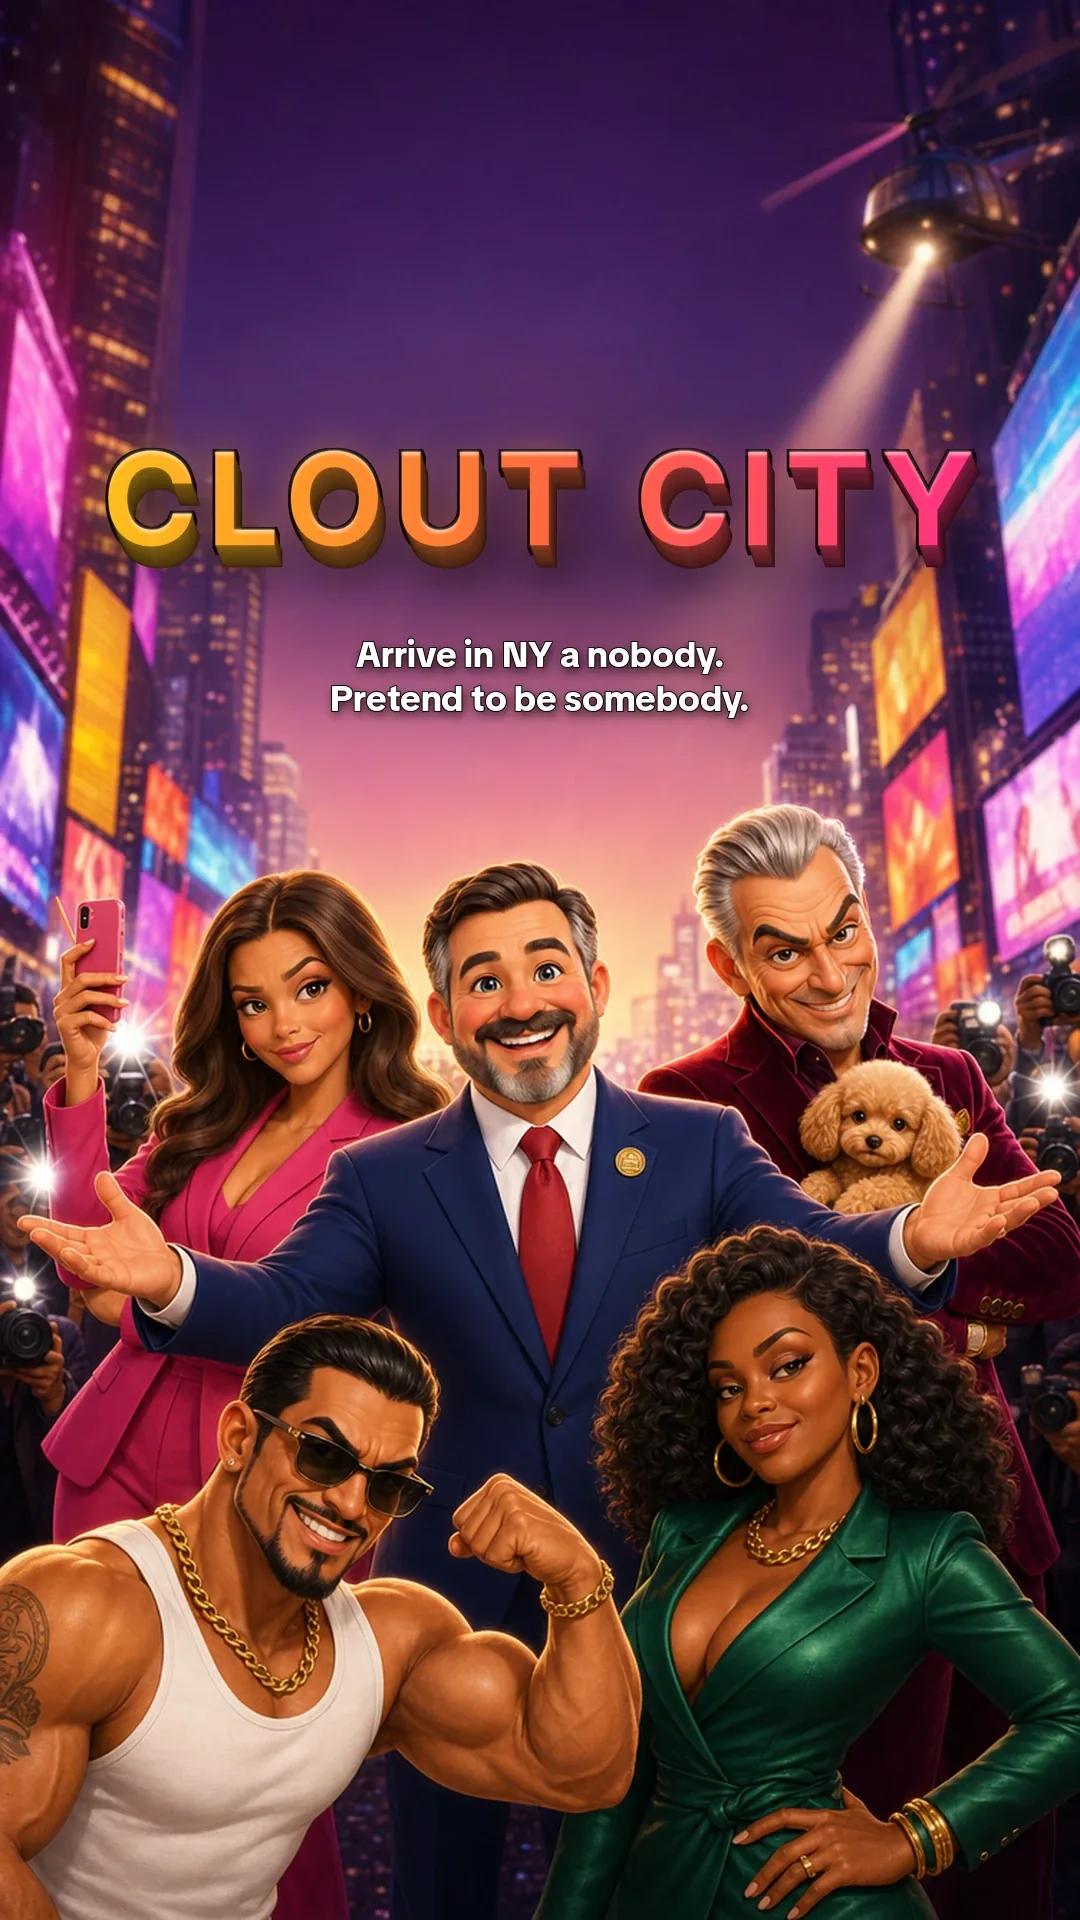
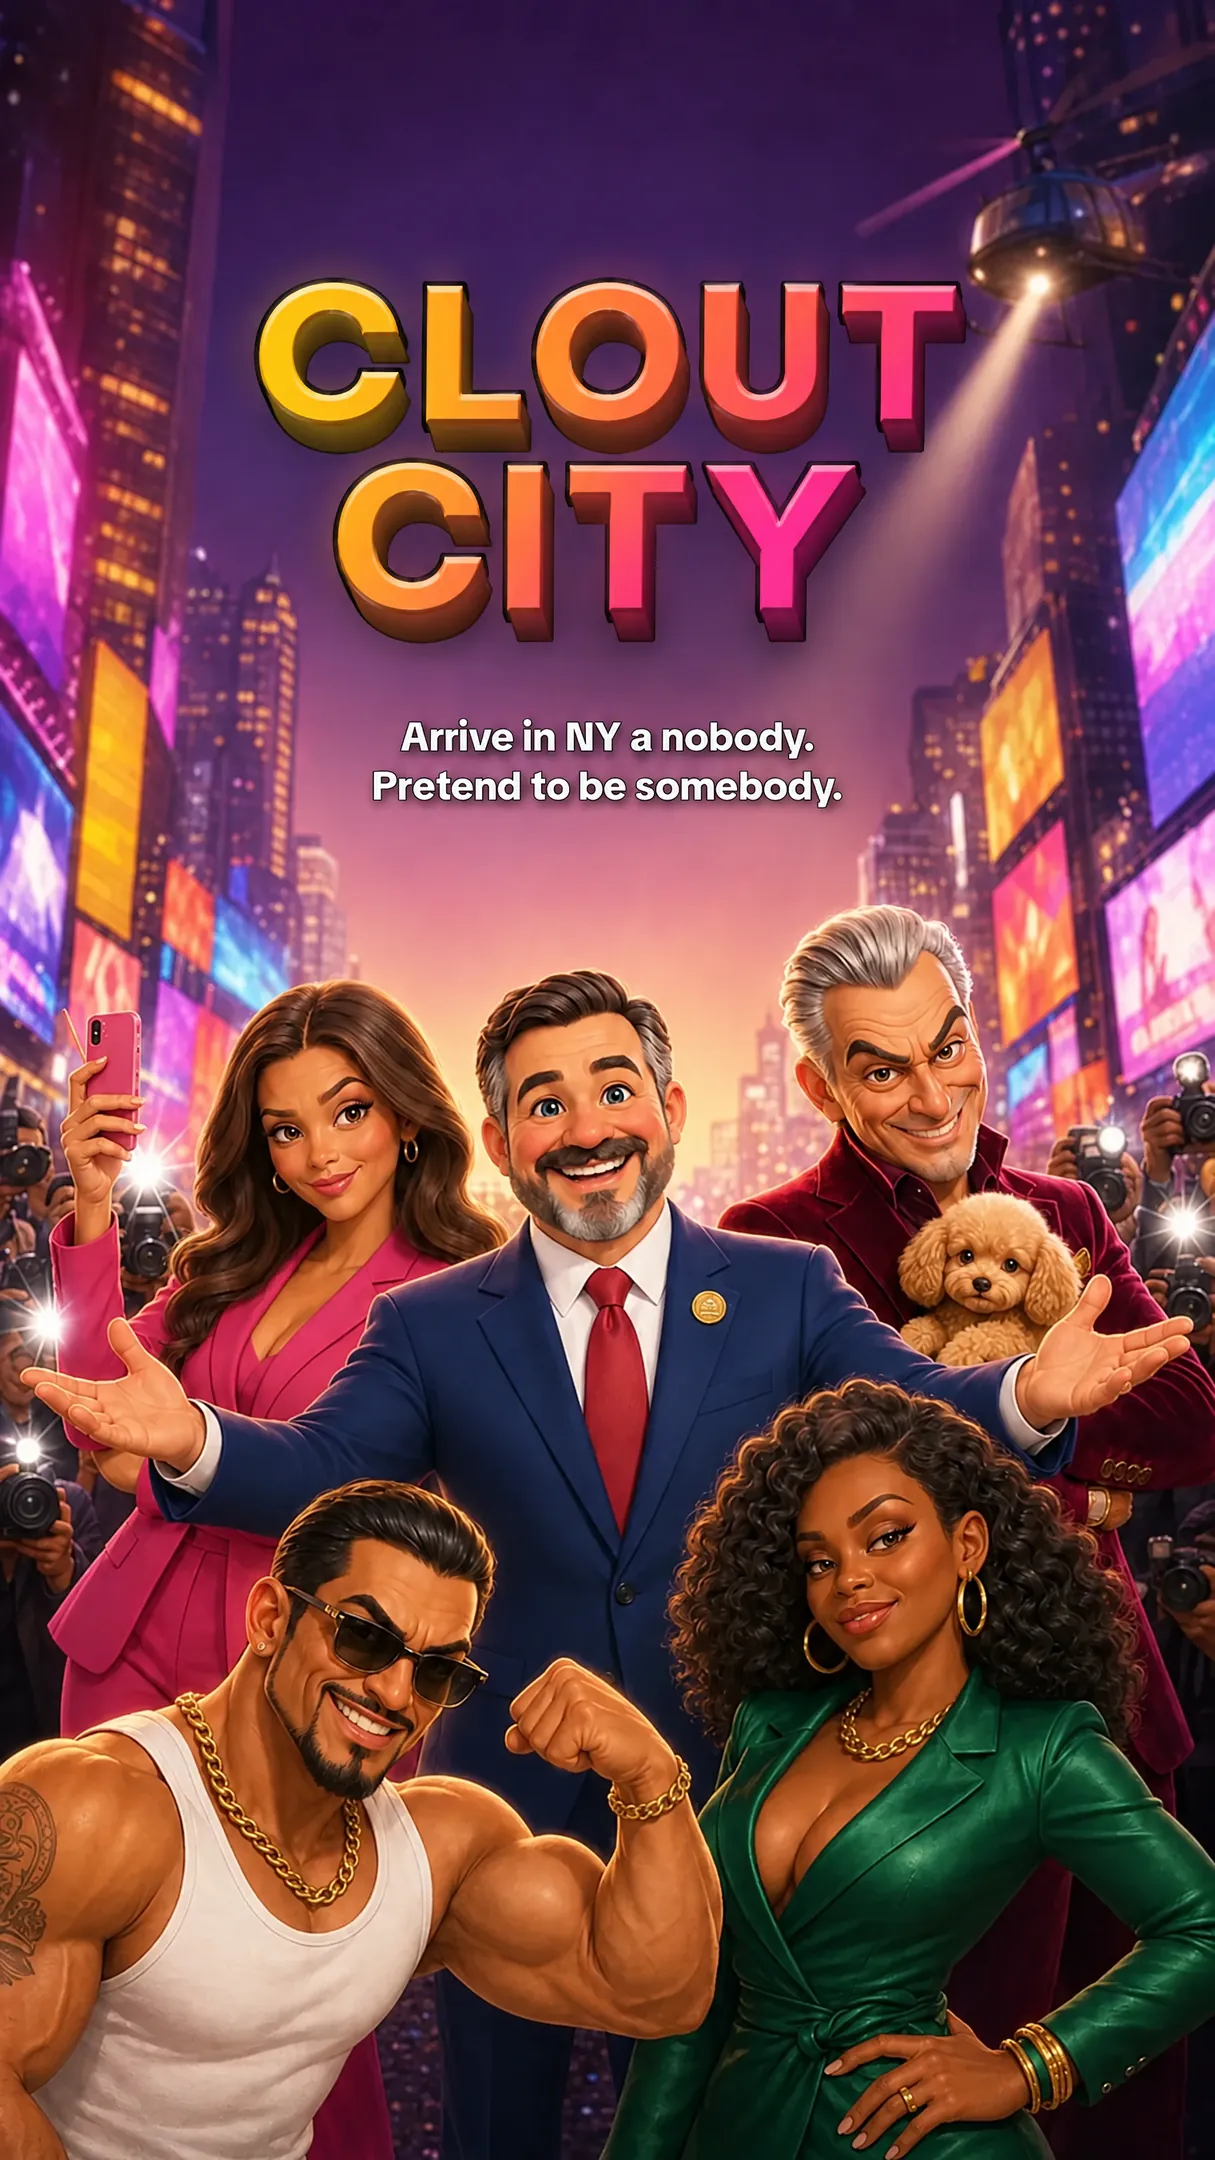
Splash: the poster's title stacked (CLOUT over CITY), full-screen on tall phones, launch images regenerated (owner)
Claude-Session: https://claude.ai/code/session_01CUmPgyMxFdJRi3YHVHPYek

diff --git a/app/globals.css b/app/globals.css
@@ -2388,12 +2388,7 @@ button.rank-chip::after { content:"›"; margin-left:2px; opacity:.6; }
 .app-loading-status { position:absolute; left:50%; transform:translateX(-50%); bottom:calc(118px + var(--safe-bottom, 0px)); display:flex; align-items:center; gap:10px;
   padding:8px 16px 8px 10px; border-radius:999px; background:rgba(20,17,26,.74); backdrop-filter:blur(8px); -webkit-backdrop-filter:blur(8px); white-space:nowrap; }
 .app-loading-status .app-spinner { width:22px; height:22px; border-width:3px; }
-/* Phones taller than the poster (9:16): cover would crop the title to the screen's edges, so the poster is shown a
-   little wider than the screen (title with even margins) and its foot fades into the colour below it. */
-@media (max-aspect-ratio: 9/16) {
-  .app-loading::before { background-color:#211a22; background-size:118% auto; }
-  .app-loading::after { background:linear-gradient(180deg, rgba(33,26,34,0) 0%, rgba(33,26,34,0) 72%, #211a22 88%, #211a22 100%); }
-}
+/* Owner, Nov 2: the title is stacked (CLOUT over CITY), narrow enough that cover keeps it whole on the tallest phones. */
 /* Only a slow rise, no zoom: on tall phones the title already fills the width. */
 @keyframes app-drift { from { transform:translateY(0); } to { transform:translateY(-1.5%); } }
 .app-spinner { width:40px; height:40px; border-radius:50%; border:4px solid rgba(255,255,255,.16); border-top-color:var(--neon-500);

diff --git a/CLAUDE.md b/CLAUDE.md
@@ -171,7 +171,7 @@ components live in `app/globals.css`.
   keeps the welcome screen and its spinner up until the game is ready); it shows at once and `SplashHold` keeps it up
   until the screen behind it has drawn (owner, Nov 1: lib/splash.ts `screenReady`: the welcome screen's Room3D onReady, the map's
   nearest blocks), at least `GAME_CONFIG.splashMinMs` (2.2 s) from launch and `splashShownMs` on screen, at most `splashMaxMs` (owner, Oct 28: the poster `public/loading-poster.webp`, wordmark and line in
-  the picture, a little wider than tall phones so the title keeps its margins; spinner pill and Mayor Papa-Dani's tips from
+  the picture; owner, Nov 2: the title stacked, CLOUT over CITY, so the poster covers even the tallest phones; spinner pill and Mayor Papa-Dani's tips from
   `lib/loadingTips.ts` over the cast); Continue spins.
   iPhone launch images are `public/splash/` (lib/launchImages.ts; regenerate with `npm run build:launch-images` on a running
   dev server after changing the loader; `/preview/loading?still=1` is what they show).
